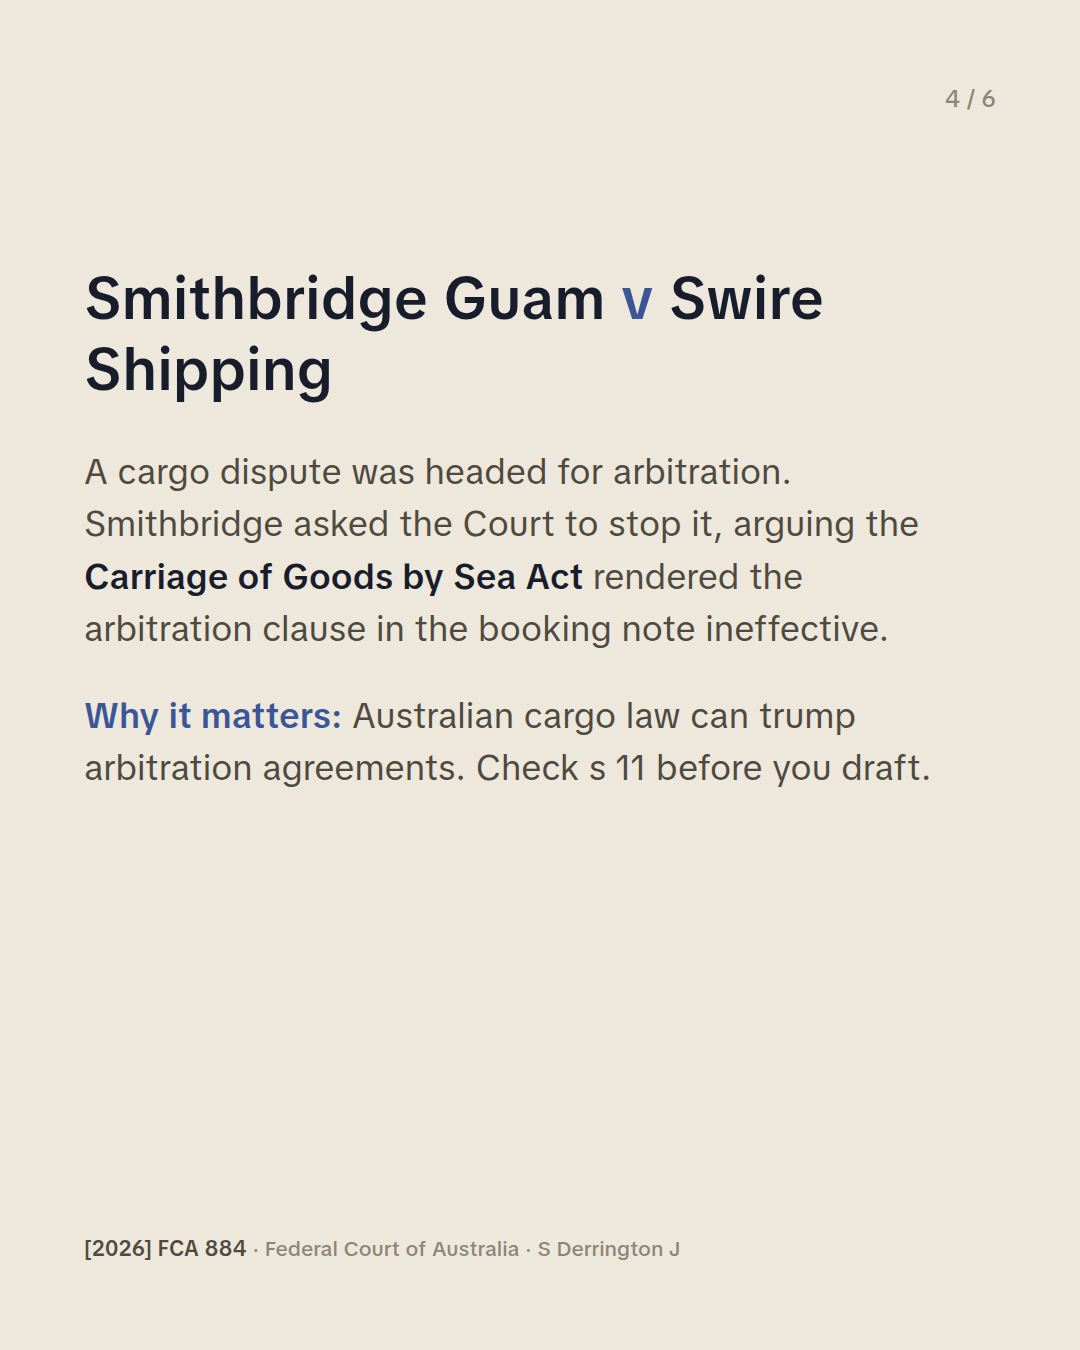
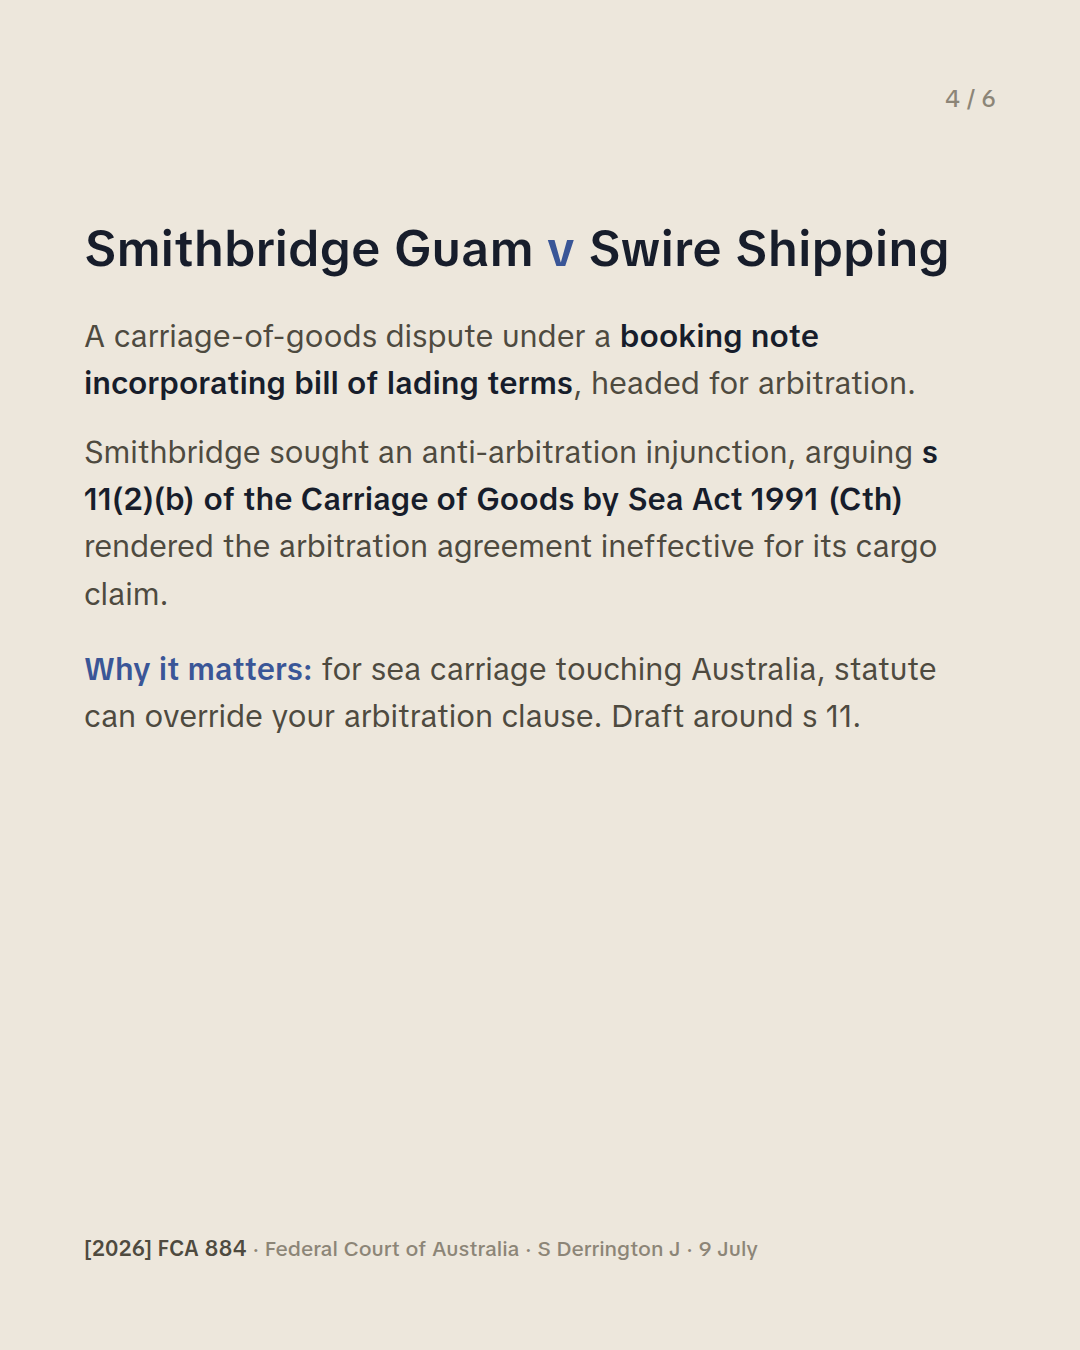
Deepen Day in Court slides: three-paragraph detail per case
Adds background, what was argued, and outcome (where verified) to each
case slide plus judge/date lines in citations.

Claude-Session: https://claude.ai/code/session_01JRjeUUcoRT5GxuTf3inkfN

Changed region(s): [[0.0611, 0.1556, 0.8861, 0.5911], [0.6417, 0.9022, 0.7028, 0.9333]]

diff --git a/tools/carousel/dayincourt.py b/tools/carousel/dayincourt.py
@@ -22,11 +22,11 @@ body.dark{background:#171D2B;color:#EDE7DC;}
 .title{margin-top:160px;font-size:96px;font-weight:600;line-height:1.12;}
 .cover-sub{margin-top:40px;font-size:38px;line-height:1.5;font-weight:400;color:#6E6858;max-width:820px;}
 .date{margin-top:20px;font-size:26px;font-weight:500;color:#8C8577;letter-spacing:.06em;}
-.case{margin-top:150px;font-size:58px;font-weight:600;line-height:1.22;max-width:900px;}
+.case{margin-top:104px;font-size:50px;font-weight:600;line-height:1.22;max-width:900px;}
 .case span{color:#3A5697;}
-.hold{margin-top:40px;font-size:35px;font-weight:400;line-height:1.5;color:#4E4A3F;max-width:880px;}
-.hold p+p{margin-top:26px;}
-.why{margin-top:34px;font-size:35px;line-height:1.5;font-weight:400;color:#4E4A3F;max-width:880px;}
+.hold{margin-top:34px;font-size:31px;font-weight:400;line-height:1.52;color:#4E4A3F;max-width:880px;}
+.hold p+p{margin-top:22px;}
+.why{margin-top:28px;font-size:31px;line-height:1.52;font-weight:400;color:#4E4A3F;max-width:880px;}
 .why b{font-weight:600;color:#3A5697;}
 .dark .why{color:#A9B0C2;}
 .dark .why b{color:#6E86C9;}
@@ -55,21 +55,21 @@ write("docket-1", f"""<div class="page">
 
 cases = [
  ("White Oak <span>v</span> Insurance Australia",
-  '<p>Greensill fallout. The insurer demanded twelve messages and a draft term sheet created while the parties circled a settlement.</p><p>Held: chat about a &ldquo;general approach&rdquo;, with <b>no element of compromise</b>, is not a negotiation. No privilege.</p>',
-  '<b>Why it matters:</b> a &ldquo;without prejudice&rdquo; label alone protects nothing. The negotiation has to be real.',
+  '<p>The Greensill coverage war, on foot since 2021. White Oak claims on a trade credit policy written by <b>BCC Trade Credit as agent for IAL</b>.</p><p>This round: IAL demanded twelve messages and a draft term sheet created while the parties circled a settlement. White Oak claimed without prejudice privilege.</p><p>Held: the messages canvassed only a &ldquo;general approach&rdquo;. No offer, no admissions, <b>no element of compromise</b>. Not a negotiation, no privilege. The rest failed on relevance.</p>',
+  '<b>Why it matters:</b> privilege is proven document by document. Labels do nothing.',
   '<b>[2026] FCA 769</b> &middot; Federal Court of Australia &middot; Thawley J'),
  ("Elvin <span>v</span> Fair Work Ombudsman",
-  '<p>Massage therapists underpaid. An individual personally on the hook. Then the employer struck a deed of company arrangement with its creditors.</p><p>The Full Court allowed the appeal <b>in part</b> and aired a live question: is the FWO a creditor bound by a DOCA?</p>',
-  '<b>Why it matters:</b> corporate rescue does not switch off workplace risk, especially personal liability.',
-  '<b>[2026] FCAFC 92</b> &middot; Full Court of the Federal Court'),
+  '<p>The FWO won underpayment findings over massage therapists classified under the <b>health professionals award</b>, plus accessorial findings against an individual personally involved.</p><p>On appeal: was the classification right? Were <b>Browne v Dunn</b> and <b>Jones v Dunkel</b> fairly applied against a self-represented litigant? And did the employer&rsquo;s DOCA bind the FWO as a &ldquo;creditor&rdquo;?</p><p>Appeal <b>allowed in part</b>. The FWO&rsquo;s cross-appeal dismissed.</p>',
+  '<b>Why it matters:</b> restructures do not erase workplace risk, and personal liability sits outside the company.',
+  '<b>[2026] FCAFC 92</b> &middot; Full Federal Court &middot; Collier, McDonald &amp; Vandongen JJ &middot; 22 July'),
  ("Smithbridge Guam <span>v</span> Swire Shipping",
-  '<p>A cargo dispute was headed for arbitration. Smithbridge asked the Court to stop it, arguing the <b>Carriage of Goods by Sea Act</b> rendered the arbitration clause in the booking note ineffective.</p>',
-  '<b>Why it matters:</b> Australian cargo law can trump arbitration agreements. Check s 11 before you draft.',
-  '<b>[2026] FCA 884</b> &middot; Federal Court of Australia &middot; S Derrington J'),
+  '<p>A carriage-of-goods dispute under a <b>booking note incorporating bill of lading terms</b>, headed for arbitration.</p><p>Smithbridge sought an anti-arbitration injunction, arguing <b>s 11(2)(b) of the Carriage of Goods by Sea Act 1991 (Cth)</b> rendered the arbitration agreement ineffective for its cargo claim.</p>',
+  '<b>Why it matters:</b> for sea carriage touching Australia, statute can override your arbitration clause. Draft around s 11.',
+  '<b>[2026] FCA 884</b> &middot; Federal Court of Australia &middot; S Derrington J &middot; 9 July'),
  ("Marsden, re Empire Consortium (in&nbsp;liq)",
-  '<p>The liquidator of the collapsed Empire Consortium group pursued <b>Nationwide Plant Hire</b> in the Federal Court.</p>',
-  '<b>Why it matters:</b> liquidator recovery actions are running hot. Counterparties of failed groups are in the firing line.',
-  '<b>[2026] FCA 911</b> &middot; Federal Court of Australia'),
+  '<p>The liquidator of the collapsed <b>Empire Consortium Group</b> pursued Nationwide Plant Hire in the Federal Court.</p><p>The usual battlegrounds in liquidator recovery actions: unfair preferences, uncommercial transactions and unpaid debts. Full judgment breakdown to follow once digested.</p>',
+  '<b>Why it matters:</b> when a counterparty collapses, expect the liquidator to come knocking, sometimes years later.',
+  '<b>[2026] FCA 911</b> &middot; Federal Court of Australia &middot; 16 July'),
 ]
 for i,(c,h,w,m) in enumerate(cases, start=2):
     write(f"docket-{i}", f"""<div class="page">
@@ -83,9 +83,9 @@ for i,(c,h,w,m) in enumerate(cases, start=2):
 write(f"docket-{N}", f"""<body class="dark"><div class="page">
   <div class="top"><div class="pg">{N} / {N}</div></div>
   <div class="case">Grofski <span>v</span> Peabody Energy</div>
-  <div class="hold"><p>A leave-to-appeal fight in an employment dispute with the coal miner&rsquo;s operator.</p><p>Most appeals die at the leave gate. Getting past it is half the battle.</p></div>
-  <div class="why"><b>High Court watch:</b> winter recess. Next judgments expected from August.</div>
-  <div class="bottom"><div><div class="cite"><b>[2026] FCA 921</b> &middot; Federal Court of Australia</div>
+  <div class="hold"><p>Grofski sought <b>leave to appeal</b> in an employment dispute with Peabody&rsquo;s PCI mine management arm.</p><p>Leave is the gate most appeals never clear: you need an arguable error, and usually an injustice worth correcting.</p></div>
+  <div class="why"><b>High Court watch:</b> winter recess since the 17 June judgments. Next delivery days expected in August.</div>
+  <div class="bottom"><div><div class="cite"><b>[2026] FCA 921</b> &middot; Federal Court of Australia &middot; 15 July</div>
   <div class="note">General information only, not legal advice. Check details against the full judgments.</div></div></div>
 </div></body>""")
 print("ok")
